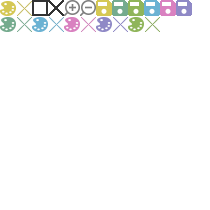
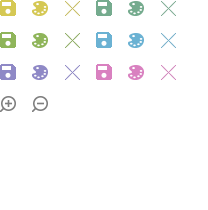
* 메모지, 아이콘 css 변경

diff --git a/src/main/webapp/css/ezMemo/memo.css b/src/main/webapp/css/ezMemo/memo.css
@@ -16,10 +16,10 @@
 select::-ms-expand {
     display: none;
 }
-.memoHeaderUL li.memoPlus{margin:5px 5px 0px 0px; padding:0px; float:right; background-position:-90px 0px; width:30px; height:30px; cursor:pointer;}
+.memoHeaderUL li.memoPlus{margin:5px 5px 0px 0px; padding:0px; float:right; background-position:-180px 0px; width:30px; height:30px; cursor:pointer;}
 .memoHeaderUL li.memoClose{margin:5px 5px 0px 0px; padding:0px; float:right; background-position:0px 0px; width:30px; height:30px; cursor:pointer;}
 .memoHeaderUL li.memoExpand{ margin:5px 5px 0px 0px; padding:0px; float:right; background-position:-60px 0px; width:30px; height:30px; cursor:pointer;}
-.memoHeaderUL li.memoExpand_s{ margin:5px 5px 0px 0px; padding:0px; float:right; background-position:-30px 0px; width:30px; height:30px; cursor:pointer;}
+.memoHeaderUL li.memoExpand_s{ margin:5px 5px 0px 0px; padding:0px; float:right; background-position:-120px 0px; width:30px; height:30px; cursor:pointer;}
 .memo_main{clear:both; padding:0px 0px 0px 5px;}
 .memo_main .memoLay{ width:260px; height:310px; float:left; margin:0px 0px 10px 5px; position:relative;}
 #boardMemoList { margin: 10px; pointer-events : auto;}
@@ -33,27 +33,27 @@ select::-ms-expand {
 .memoTit{ margin:4px 5px 0px 5px; padding:0px 10px; height:37px; line-height:35px; overflow:hidden;}
 .memoTit input{ width: 13px; height: 13px; vertical-align: middle; float:left; margin-top:10px; margin-right:5px; }
 .memoTit .mtitText{ margin:0px; padding:0px; font-family:Gulim; color:#696969; font-size:11px; float:left;}
-.mamo01 .pallete{ margin:9px 10px 0px 0px; padding:0px; float:right; background-position:0px 0px; width:16px; height:16px; cursor:pointer;}
-.mamo01 .memoX{ margin:9px 0px 0px 0px; padding:0px; float:right; background-position:-16px 0px; width:16px; height:16px; cursor:pointer;}
-.mamo01 .saveBtn{margin:9px 10px 0px 0px; padding:0px; float:right; background-position:-96px 0px; width:16px; height:16px; cursor:pointer;}
-.mamo02 .pallete{ margin:9px 10px 0px 0px; padding:0px; float:right; background-position:0px -16px; width:16px; height:16px; cursor:pointer;}
-.mamo02 .memoX{ margin:9px 0px 0px 0px; padding:0px; float:right; background-position:-16px -16px; width:16px; height:16px; cursor:pointer;}
-.mamo02 .saveBtn{margin:9px 10px 0px 0px; padding:0px; float:right; background-position:-112px 0px; width:16px; height:16px; cursor:pointer;}
-.mamo03 .pallete{ margin:9px 10px 0px 0px; padding:0px; float:right; background-position:-128px -16px; width:16px; height:16px; cursor:pointer;}
-.mamo03 .memoX{ margin:9px 0px 0px 0px; padding:0px; float:right; background-position:-144px -16px; width:16px; height:16px; cursor:pointer;}
-.mamo03 .saveBtn{margin:9px 10px 0px 0px; padding:0px; float:right; background-position:-128px 0px; width:16px; height:16px; cursor:pointer;}
-.mamo04 .pallete{ margin:9px 10px 0px 0px; padding:0px; float:right; background-position:-32px -16px; width:16px; height:16px; cursor:pointer;}
-.mamo04 .memoX{ margin:9px 0px 0px 0px; padding:0px; float:right; background-position:-48px -16px; width:16px; height:16px; cursor:pointer;}
-.mamo04 .saveBtn{margin:9px 10px 0px 0px; padding:0px; float:right; background-position:-144px 0px; width:16px; height:16px; cursor:pointer;}
-.mamo05 .pallete{ margin:9px 10px 0px 0px; padding:0px; float:right; background-position:-96px -16px; width:16px; height:16px; cursor:pointer;}
-.mamo05 .memoX{ margin:9px 0px 0px 0px; padding:0px; float:right; background-position:-112px -16px; width:16px; height:16px; cursor:pointer;}
-.mamo05 .saveBtn{margin:9px 10px 0px 0px; padding:0px; float:right; background-position:-176px 0px; width:16px; height:16px; cursor:pointer;}
-.mamo06 .pallete{ margin:9px 10px 0px 0px; padding:0px; float:right; background-position:-64px -16px; width:16px; height:16px; cursor:pointer;}
-.mamo06 .memoX{ margin:9px 0px 0px 0px; padding:0px; float:right; background-position:-80px -16px; width:16px; height:16px; cursor:pointer;}
-.mamo06 .saveBtn{margin:9px 10px 0px 0px; padding:0px; float:right; background-position:-160px 0px; width:16px; height:16px; cursor:pointer;}
+.mamo01 .pallete{ margin:9px 10px 0px 0px; padding-bottom:10px; float:right; background-position:-32px 0px; width:16px; height:16px; cursor:pointer;}
+.mamo01 .memoX{ margin:9px 0px 0px 0px; padding:0px; float:right; background-position:-64px 0px; width:16px; height:16px; cursor:pointer;}
+.mamo01 .saveBtn{margin:9px 10px 0px 0px; padding:0px; float:right; background-position:0px 0px; width:16px; height:16px; cursor:pointer;}
+.mamo02 .pallete{ margin:9px 10px 0px 0px; padding-bottom:10px; float:right; background-position:-128px 0px; width:16px; height:16px; cursor:pointer;}
+.mamo02 .memoX{ margin:9px 0px 0px 0px; padding:0px; float:right; background-position:-160px 0px; width:16px; height:16px; cursor:pointer;}
+.mamo02 .saveBtn{margin:9px 10px 0px 0px; padding:0px; float:right; background-position:-96px 0px; width:16px; height:16px; cursor:pointer;}
+.mamo03 .pallete{ margin:9px 10px 0px 0px; padding-bottom:10px; float:right; background-position:-32px -32px; width:16px; height:16px; cursor:pointer;}
+.mamo03 .memoX{ margin:9px 0px 0px 0px; padding:0px; float:right; background-position:-64px -32px; width:16px; height:16px; cursor:pointer;}
+.mamo03 .saveBtn{margin:9px 10px 0px 0px; padding:0px; float:right; background-position:0px -32px; width:16px; height:16px; cursor:pointer;}
+.mamo04 .pallete{ margin:9px 10px 0px 0px; padding-bottom:10px; float:right; background-position:-128px -32px; width:16px; height:16px; cursor:pointer;}
+.mamo04 .memoX{ margin:9px 0px 0px 0px; padding:0px; float:right; background-position:-160px -32px; width:16px; height:16px; cursor:pointer;}
+.mamo04 .saveBtn{margin:9px 10px 0px 0px; padding:0px; float:right; background-position:-96px -32px; width:16px; height:16px; cursor:pointer;}
+.mamo05 .pallete{ margin:9px 10px 0px 0px; padding-bottom:10px; float:right; background-position:-32px -64px; width:16px; height:16px; cursor:pointer;}
+.mamo05 .memoX{ margin:9px 0px 0px 0px; padding:0px; float:right; background-position:-64px -64px; width:16px; height:16px; cursor:pointer;}
+.mamo05 .saveBtn{margin:9px 10px 0px 0px; padding:0px; float:right; background-position:0px -64px; width:16px; height:16px; cursor:pointer;}
+.mamo06 .pallete{ margin:9px 10px 0px 0px; padding-bottom:10px; float:right; background-position:-128px -64px; width:16px; height:16px; cursor:pointer;}
+.mamo06 .memoX{ margin:9px 0px 0px 0px; padding:0px; float:right; background-position:-160px -64px; width:16px; height:16px; cursor:pointer;}
+.mamo06 .saveBtn{margin:9px 10px 0px 0px; padding:0px; float:right; background-position:-96px -64px; width:16px; height:16px; cursor:pointer;}
 .memoTit .memoPlus{margin:9px 10px 0px 0px; padding:0px; float:right; background-position:-64px 0px; width:16px; height:16px; cursor:pointer;}
 .memoTit .memoMinus{margin:9px 10px 0px 0px; padding:0px; float:right; background-position:-80px 0px; width:16px; height:16px; cursor:pointer;}
-.memoText{border: none; background: none; margin: 10px 0px 0px 17px; padding: 0px; line-height: 24px; color: #000; font-size: 12px; width: 90%; height: 213px; outline:none; resize:none; -ms-overflow-style: none; }
+.memoText{border: none; background: none; margin: 10px 0px 0px 17px; padding: 0px 30px 0px 0px; line-height: 24px; color: #000; font-size: 12px; width: 90%; height: 213px; outline:none; resize:none; -ms-overflow-style: none; }
 .memoText::-webkit-scrollbar { display: none !important; }
 
 .memo01Big{box-shadow: 0px 1px 5px 0px rgba(0, 0, 0, 0.20);}
@@ -141,13 +141,13 @@ h1 {  font-size:13px; margin:0px 0px 10px 0px; height:24px; line-height:15px; pa
 
 /* portalMain 메모분류함  */
 .select_wrapper {text-align: left; padding-left: 10px;color:#fff; background: #494949 url(/images/ezMemo/arrow.png) no-repeat top 10px right 9px;line-height: 28px;cursor: pointer;position: relative; width:165px; margin: 5px 0px 0px 5px; border-radius:40px;}
-.select_wrapper:hover { background: #696969 url("/images/ezMemo/arrow.png") no-repeat top 10px right 9px; }
+.select_wrapper:hover { background: #566c3a url("/images/ezMemo/arrow.png") no-repeat top 10px right 9px; }
 .select_wrapper .select_inner {font-family: arial;font-size: 13px; background: #fff;border-radius: 5px;  box-shadow: 0px 0px 10px rgba(0, 0, 0, 0.3);color: #687278; display: none;position: absolute;left: 0;top: 0%;width: 100%;z-index: 15000;list-style: none; text-align:left; padding:0px;}
 .select_wrapper .select_inner li {padding-left: 10px; border-bottom: 1px solid #eee;}
 .select_wrapper .select_inner li:hover { background: #eee; }
 .select_wrapper .select_inner li:last-child {border: none;border-radius: 0 0 5px 5px;}
 .select_wrapper .select_inner li:first-child { border-radius: 5px 5px 0 0; }
-.select_wrapper span {display: block; width:155px; font-size:13px;}
+.select_wrapper span {display: block; width:200px; font-size:13px;}
 
 
 .individual-memo { width:230px; height:230px; background-color:#0470e4; text-align:left; border:1px solid black; float: left; margin: 10px 25px 10px 25px; overflow:hidden; padding-top:5px; position:relative; }